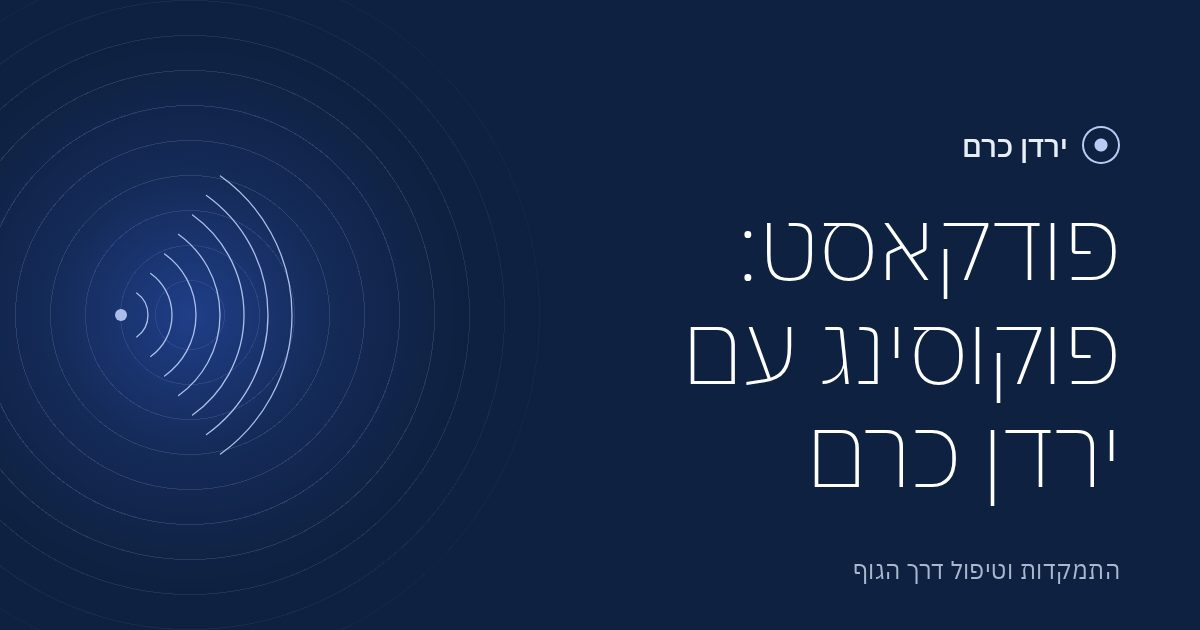
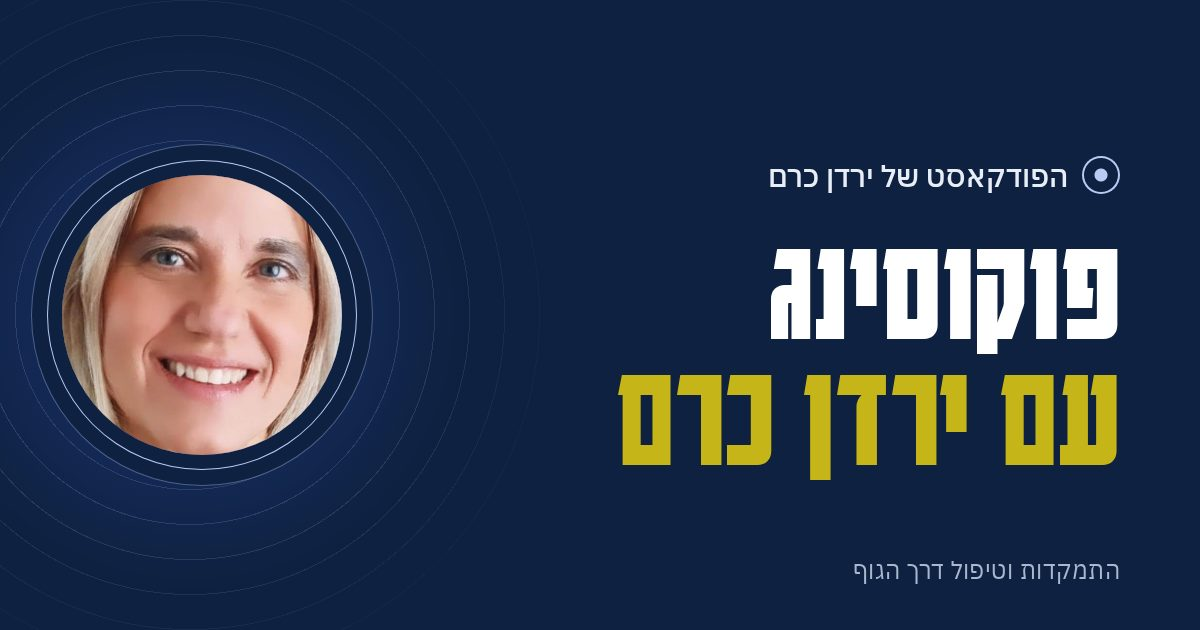
Take the podcast artwork's language: flowing lines, wordmark, Yarden in the circle
- field.svg: ribbons of fine lines that twist and fold (from the podcast
  cover), as a texture on the contact block, testimonials and podcast hero
- Podcast wordmark in Karantina Bold (SIL OFL) with 'עם ירדן כרם' in the
  cover's mustard, only where the podcast appears
- Podcast page hero: Yarden in the lens, wordmark, Spotify and YouTube links
  (Spotify show verified via oEmbed)
- Home: the podcast as a small dark card in its own identity
- Share image for the podcast in the same style; og headings keep spaces

Claude-Session: https://claude.ai/code/session_014A9Rt8sVo3QZg3Ea7hN3fG

Changed region(s): [[0.4933, 0.3317, 0.9558, 0.7841], [0.0308, 0.2413, 0.3083, 0.754], [0.6167, 0.2111, 0.925, 0.3016]]

diff --git a/web/content/updates/2026-10-podcast.body.html b/web/content/updates/2026-10-podcast.body.html
@@ -1,0 +1,37 @@
+<header class="page-hero"><span class="field" aria-hidden="true"></span><div class="wrap">
+<figure class="portrait page-hero__portrait"><span class="portrait__mark" aria-hidden="true"></span><img src="/assets/yarden.jpg" alt="ירדן כרם" width="640" height="640" fetchpriority="high" decoding="async"></figure>
+<h1 class="podmark"><span>פוקוסינג</span><span>עם ירדן כרם</span></h1>
+<p class="page-hero__sub">הפודקאסט על התמקדות ועל Somatic Experiencing: הסברים, סשנים מוקלטים ושיחות עם אורחים.</p>
+<div class="actions"><a class="btn btn--paper" href="https://open.spotify.com/show/1PdEltqdiPKR4aGi3efIDc" target="_blank" rel="noopener">להאזנה בספוטיפיי</a><a class="btn btn--line-light" href="https://www.youtube.com/@yardenkerem5297" target="_blank" rel="noopener">לערוץ היוטיוב</a></div>
+</div></header>
+
+<section class="block" id="basics"><div class="wrap">
+<h2 class="heading">הגישה והכלים</h2>
+<div class="films">
+<figure class="film"><div class="video" data-yt="B_3e4aVowq4"><button type="button" class="video__play" aria-label="הפעלת סרטון: פרק 1, מהי גישת ההתמקדות (Focusing), ובמה היא יכולה לתרום לכל אחד" style="background-image:url(https://i.ytimg.com/vi/B_3e4aVowq4/hqdefault.jpg)"><span class="video__icon" aria-hidden="true"></span></button></div><figcaption><h3>מהי גישת ההתמקדות (Focusing), ובמה היא יכולה לתרום לכל אחד</h3><p>פרק 1</p></figcaption></figure>
+<figure class="film"><div class="video" data-yt="OIxfHsZ9CQE"><button type="button" class="video__play" aria-label="הפעלת סרטון: פרק 2, Somatic Experiencing: טיפול דרך הקשבה לתחושות הגוף במצבים של טראומת שוק" style="background-image:url(https://i.ytimg.com/vi/OIxfHsZ9CQE/hqdefault.jpg)"><span class="video__icon" aria-hidden="true"></span></button></div><figcaption><h3>Somatic Experiencing: טיפול דרך הקשבה לתחושות הגוף במצבים של טראומת שוק</h3><p>פרק 2</p></figcaption></figure>
+<figure class="film"><div class="video" data-yt="7vpLk1fitXs"><button type="button" class="video__play" aria-label="הפעלת סרטון: פרק 3, &quot;אני מאכזב&quot;, &quot;אני כישלון&quot;: קולות של ביקורת פנימית ומה עושים איתם" style="background-image:url(https://i.ytimg.com/vi/7vpLk1fitXs/hqdefault.jpg)"><span class="video__icon" aria-hidden="true"></span></button></div><figcaption><h3>"אני מאכזב", "אני כישלון": קולות של ביקורת פנימית ומה עושים איתם</h3><p>פרק 3</p></figcaption></figure>
+<figure class="film"><div class="video" data-yt="uz6SETPzGik"><button type="button" class="video__play" aria-label="הפעלת סרטון: פרק 4, פוקוסינג על מצבים חסומים" style="background-image:url(https://i.ytimg.com/vi/uz6SETPzGik/hqdefault.jpg)"><span class="video__icon" aria-hidden="true"></span></button></div><figcaption><h3>פוקוסינג על מצבים חסומים</h3><p>פרק 4</p></figcaption></figure>
+<figure class="film"><div class="video" data-yt="hia4MBUcJbk"><button type="button" class="video__play" aria-label="הפעלת סרטון: פרק 6, התמקדות אישית ופינוי המרחב לפי הגישה של יוג'ין ג'נדלין" style="background-image:url(https://i.ytimg.com/vi/hia4MBUcJbk/hqdefault.jpg)"><span class="video__icon" aria-hidden="true"></span></button></div><figcaption><h3>התמקדות אישית ופינוי המרחב לפי הגישה של יוג'ין ג'נדלין</h3><p>פרק 6</p></figcaption></figure>
+<figure class="film"><div class="video" data-yt="Qn1eYPBh2dw"><button type="button" class="video__play" aria-label="הפעלת סרטון: פרק 9, סולו פוקוסינג: התמקדות לפי הגישה של אן וייזר קורנל" style="background-image:url(https://i.ytimg.com/vi/Qn1eYPBh2dw/hqdefault.jpg)"><span class="video__icon" aria-hidden="true"></span></button></div><figcaption><h3>סולו פוקוסינג: התמקדות לפי הגישה של אן וייזר קורנל</h3><p>פרק 9</p></figcaption></figure>
+</div>
+</div></section>
+
+<section class="block block--tint" id="sessions"><div class="wrap">
+<h2 class="heading">סשנים</h2>
+<div class="films">
+<figure class="film"><div class="video" data-yt="drvg5u-YLPg"><button type="button" class="video__play" aria-label="הפעלת סרטון: פרק 7, סשן עם ברק סולימן: התמקדות על כאב גב" style="background-image:url(https://i.ytimg.com/vi/drvg5u-YLPg/hqdefault.jpg)"><span class="video__icon" aria-hidden="true"></span></button></div><figcaption><h3>סשן עם ברק סולימן: התמקדות על כאב גב</h3><p>פרק 7</p></figcaption></figure>
+<figure class="film"><div class="video" data-yt="XHTzIAGLnHI"><button type="button" class="video__play" aria-label="הפעלת סרטון: פרק 12, איך להבין את הדברים עד הסוף: סשן עם איריס גולדפינגר" style="background-image:url(https://i.ytimg.com/vi/XHTzIAGLnHI/hqdefault.jpg)"><span class="video__icon" aria-hidden="true"></span></button></div><figcaption><h3>איך להבין את הדברים עד הסוף: סשן עם איריס גולדפינגר</h3><p>פרק 12</p></figcaption></figure>
+</div>
+</div></section>
+
+<section class="block" id="talks"><div class="wrap">
+<h2 class="heading">שיחות</h2>
+<div class="films">
+<figure class="film"><div class="video" data-yt="Y63bPMH0OPY"><button type="button" class="video__play" aria-label="הפעלת סרטון: פרק 5, הילד הפנימי ופוקוסינג: שיחה עם חמוטל שפיצר גת" style="background-image:url(https://i.ytimg.com/vi/Y63bPMH0OPY/hqdefault.jpg)"><span class="video__icon" aria-hidden="true"></span></button></div><figcaption><h3>הילד הפנימי ופוקוסינג: שיחה עם חמוטל שפיצר גת</h3><p>פרק 5</p></figcaption></figure>
+<figure class="film"><div class="video" data-yt="3P2a5Cs8dA8"><button type="button" class="video__play" aria-label="הפעלת סרטון: פרק 8, שיחה על פוקוסינג, תובנות עמוקות, גלגולים ושקט עם יונתן סער" style="background-image:url(https://i.ytimg.com/vi/3P2a5Cs8dA8/hqdefault.jpg)"><span class="video__icon" aria-hidden="true"></span></button></div><figcaption><h3>שיחה על פוקוסינג, תובנות עמוקות, גלגולים ושקט עם יונתן סער</h3><p>פרק 8</p></figcaption></figure>
+<figure class="film"><div class="video" data-yt="wUosHxE6PzQ"><button type="button" class="video__play" aria-label="הפעלת סרטון: פרק 10, שיחה עם נטע פלג גינזבורג על מחול, ציידים־לקטים, תנועה, שפה והתמקדות" style="background-image:url(https://i.ytimg.com/vi/wUosHxE6PzQ/hqdefault.jpg)"><span class="video__icon" aria-hidden="true"></span></button></div><figcaption><h3>שיחה עם נטע פלג גינזבורג על מחול, ציידים־לקטים, תנועה, שפה והתמקדות</h3><p>פרק 10</p></figcaption></figure>
+<figure class="film"><div class="video" data-yt="0HLVAFoYXTE"><button type="button" class="video__play" aria-label="הפעלת סרטון: פרק 11, ההתמקדות היא יהלום נדיר: שיחה על הרטט המיוחד של ההתמקדות עם הילי זמיר" style="background-image:url(https://i.ytimg.com/vi/0HLVAFoYXTE/hqdefault.jpg)"><span class="video__icon" aria-hidden="true"></span></button></div><figcaption><h3>ההתמקדות היא יהלום נדיר: שיחה על הרטט המיוחד של ההתמקדות עם הילי זמיר</h3><p>פרק 11</p></figcaption></figure>
+<figure class="film"><div class="video" data-yt="1jbUwFVDHcM"><button type="button" class="video__play" aria-label="הפעלת סרטון: פרק 13, שיחה עם אשרת קוטלר" style="background-image:url(https://i.ytimg.com/vi/1jbUwFVDHcM/hqdefault.jpg)"><span class="video__icon" aria-hidden="true"></span></button></div><figcaption><h3>שיחה עם אשרת קוטלר</h3><p>פרק 13</p></figcaption></figure>
+</div>
+</div></section>

diff --git a/web/public/assets/style.css b/web/public/assets/style.css
@@ -12,6 +12,9 @@
 @font-face { font-family: "IBM Plex Sans Hebrew"; font-style: normal; font-weight: 400; font-display: swap; src: url("/assets/fonts/IBMPlexSansHebrew-Regular.woff2") format("woff2"); }
 @font-face { font-family: "IBM Plex Sans Hebrew"; font-style: normal; font-weight: 500; font-display: swap; src: url("/assets/fonts/IBMPlexSansHebrew-Medium.woff2") format("woff2"); }
 @font-face { font-family: "IBM Plex Sans Hebrew"; font-style: normal; font-weight: 600; font-display: swap; src: url("/assets/fonts/IBMPlexSansHebrew-SemiBold.woff2") format("woff2"); }
+/* Karantina (SIL OFL, see fonts/LICENSE-Karantina.txt): only for the podcast's wordmark, as in its artwork */
+@font-face { font-family: "Karantina"; font-style: normal; font-weight: 700; font-display: swap; src: url("/assets/fonts/Karantina-Bold-hebrew.woff2") format("woff2"); unicode-range: U+0307-0308, U+0590-05FF, U+200C-2010, U+20AA, U+25CC, U+FB1D-FB4F; }
+@font-face { font-family: "Karantina"; font-style: normal; font-weight: 700; font-display: swap; src: url("/assets/fonts/Karantina-Bold-latin.woff2") format("woff2"); unicode-range: U+0000-00FF, U+0131, U+0152-0153, U+02BB-02BC, U+02C6, U+02DA, U+02DC, U+0304, U+0308, U+0329, U+2000-206F, U+20AC, U+2122, U+2191, U+2193, U+2212, U+2215, U+FEFF, U+FFFD; }
 
 :root {
   /* Palette — the five blues */
@@ -31,6 +34,9 @@
   --on-ink: #e8eef7;
   --on-ink-soft: #a9b8cf;
   --white: #ffffff;
+  /* From the podcast's artwork: its mustard accent and electric blue lines */
+  --pod: #c5b518;
+  --electric: #5b86ff;
 
   --font: "IBM Plex Sans Hebrew", "Arial Hebrew", "Segoe UI", sans-serif;
   /* Scale: 1.333 (perfect fourth) from 18px body; display is fluid */
@@ -653,6 +659,39 @@ img.is-missing, .figure.is-missing, .gallery figure.is-missing { display: none; 
 .split > .about__side { position: sticky; top: calc(var(--header-h) + 84px); }
 @media (max-width: 900px) { .split > .about__side { position: static; } .about__side .portrait { width: min(72vw, 280px); } }
 
+/* The podcast's identity (its artwork: condensed white type, mustard accent, flowing blue lines) */
+.podmark { font-family: "Karantina", var(--font); font-weight: 700; line-height: .86; letter-spacing: .005em; margin: 0; text-wrap: nowrap; }
+.podmark > span { display: block; }
+.podmark > span + span { color: var(--pod); }
+.page-hero .podmark { font-size: clamp(4.4rem, 2.4rem + 7.4vw, 9.6rem); color: var(--white); }
+
+/* Flowing lines on dark panels */
+.field { position: absolute; inset: 0; z-index: -1; pointer-events: none; background: var(--electric); opacity: .38; -webkit-mask: url("/assets/art/field.svg") center / cover no-repeat; mask: url("/assets/art/field.svg") center / cover no-repeat; }
+.block--contact, .section--ink, .podcard { position: relative; isolation: isolate; overflow: hidden; }
+.block--contact .field { opacity: .2; }
+.podcard .field { inset: 0 0 auto; height: 420px; opacity: .42; }
+
+/* Home: the podcast as a small version of its cover */
+.podcard { align-self: start; padding: clamp(28px, 4vw, 48px); border-radius: var(--r-panel); background: var(--ink); color: var(--on-ink); }
+.podcard .podmark { font-size: clamp(3.6rem, 2.4rem + 4vw, 6rem); margin-bottom: 18px; color: var(--white); }
+.podcard__lead { margin: 0 0 28px; color: var(--on-ink-soft); }
+.podcard .episode p { color: var(--on-ink); }
+.podcard .actions { margin-top: 8px; }
+
+/* A photo at the centre of a page hero's lens (the podcast page) */
+.portrait.page-hero__portrait {
+  --pw: clamp(210px, 20vw, 300px);
+  position: absolute; top: 50%; inset-inline-end: calc(var(--lens) * .22 - var(--pw) / 2);
+  width: var(--pw); translate: 0 -50%;
+  animation: focus-in 2s .15s cubic-bezier(.2, .6, .1, 1) both;
+}
+.page-hero:has(.page-hero__portrait)::after { display: none; }
+.portrait.page-hero__portrait::after { border-color: rgba(185, 203, 245, .22); }
+@media (max-width: 980px) {
+  .portrait.page-hero__portrait { position: relative; top: auto; inset: auto; translate: none; width: 120px; margin: 0 30px 40px; }
+  .page-hero:has(.page-hero__portrait) .wrap::before { display: none; }
+}
+
 /* Videos: balanced rows by count, captions from YouTube titles */
 .films:has(> :nth-child(5):last-child) { grid-template-columns: repeat(6, minmax(0, 1fr)); }
 .films:has(> :nth-child(5):last-child) > :nth-child(-n + 2) { grid-column: span 3; }
@@ -766,7 +805,7 @@ img.is-missing, .figure.is-missing, .gallery figure.is-missing { display: none; 
 .whatsapp:hover { color: #fff; }
 
 @media (prefers-reduced-motion: reduce) {
-  .hero h1 span, .page-hero h1, .hero::before, .page-hero::before, .page-hero::after, .hero__portrait { animation: none; }
+  .hero h1 span, .page-hero h1, .hero::before, .page-hero::before, .page-hero::after, .hero__portrait, .page-hero__portrait { animation: none; }
   * { transition: none !important; }
 }
 @media print { .site-header, .whatsapp, .block--contact, .site-footer, .toc, .a11y-btn { display: none; } .hero, .page-hero { background: none; color: #000; } .page-hero h1, .hero h1 { color: #000; } }

diff --git a/web/content/updates/2026-10-home.body.html b/web/content/updates/2026-10-home.body.html
@@ -77,6 +77,7 @@
 </section>
 
 <section class="section section--ink" aria-label="מה אומרים מטופלים">
+  <span class="field" aria-hidden="true"></span>
   <div class="wrap">
     <!--yk:voices--><div class="voices" data-voices><figure class="voice"><blockquote>אחרי שנים של תקיעות ב&#x27;מתישהו&#x27;, מצאתי את האומץ לפתוח קליניקה משלי. זו לא רק עבודה, זו חופש אמיתי שהגיע מתוך תזוזה עמוקה בפנים.</blockquote><figcaption>מטופלת</figcaption></figure><figure class="voice" hidden><blockquote>הרגשתי לכודה בדפוסים ישנים, במיוחד במערכות יחסים. דרך ההקשבה לגוף הבנתי מה אני באמת מרגישה, ופתאום יכולתי להציב גבול ברור ששינה הכל.</blockquote><figcaption>מטופלת</figcaption></figure><figure class="voice" hidden><blockquote>הכאב היה כמו מפלצת שברחתי ממנה כל חיי. כשלמדתי לעצור ולהקשיב לו בעדינות דרך הגוף, הוא התכווץ והפך לחלק ממני. זוהי השלווה שחיפשתי.</blockquote><figcaption>מטופל</figcaption></figure></div>
     <div class="voices__nav">
@@ -116,10 +117,12 @@
 
 <section class="section">
   <div class="wrap media-split">
-    <div>
-      <h2>להאזין: פוקוסינג עם ירדן כרם</h2>
+    <div class="podcard">
+      <span class="field" aria-hidden="true"></span>
+      <h2 class="podmark"><span>פוקוסינג</span><span>עם ירדן כרם</span></h2>
+      <p class="podcard__lead">הפודקאסט: הסברים, סשנים מוקלטים ושיחות עם אורחים.</p>
       <div class="episode"><div class="video" data-yt="1jbUwFVDHcM"><button type="button" class="video__play" aria-label="הפעלת סרטון: פרק 13: שיחה עם אשרת קוטלר" style="background-image:url(https://i.ytimg.com/vi/1jbUwFVDHcM/hqdefault.jpg)"><span class="video__icon" aria-hidden="true"></span></button></div><p>פרק 13: שיחה עם אשרת קוטלר</p></div><div class="episode"><div class="video" data-yt="XHTzIAGLnHI"><button type="button" class="video__play" aria-label="הפעלת סרטון: פרק שנים עשר - איך להבין את הדברים עד הסוף - סשן עם איריס גולדפינגר" style="background-image:url(https://i.ytimg.com/vi/XHTzIAGLnHI/hqdefault.jpg)"><span class="video__icon" aria-hidden="true"></span></button></div><p>פרק שנים עשר - איך להבין את הדברים עד הסוף - סשן עם איריס גולדפינגר</p></div>
-      <p><a class="more" href="/פודקאסט/">כל פרקי הפודקאסט</a></p>
+      <div class="actions"><a class="btn btn--paper btn--sm" href="https://open.spotify.com/show/1PdEltqdiPKR4aGi3efIDc" target="_blank" rel="noopener">להאזנה בספוטיפיי</a><a class="btn btn--line-light btn--sm" href="/פודקאסט/">כל הפרקים</a></div>
     </div>
     <div>
       <h2>לקרוא: מאמרים</h2>

diff --git a/web/content/contact.html b/web/content/contact.html
@@ -1,5 +1,6 @@
 
 <section class="section section--ink block--contact" id="contact">
+  <span class="field" aria-hidden="true"></span>
   <div class="wrap contact">
     <div>
       <h2>איפה להתחיל?</h2>

diff --git a/README.md b/README.md
@@ -44,6 +44,7 @@ node --import ./test/register.mjs test/sanitize.test.mjs
 - **תמונות שיתוף (og:image):** `node web/scripts/gen-og.mjs` מייצר תמונה 1200×630 לכל עמוד ולכל מאמר בלי תמונה משלו (`public/og/`). דורש Playwright, ולכן מריצים אותו במחשב פיתוח ומעלים את הקבצים לגיט.
 - **כותרות סרטונים:** `web/content/video-titles.json` (מתוך YouTube oEmbed). סרטון שהוסר מיוטיוב מוצג כהודעה במקום נגן.
 - **בלוק יצירת הקשר:** נמצא במקום אחד, `web/content/contact.html`, ומוצג כך בכל העמודים.
+- **זהות הפודקאסט:** לקוחה מעטיפת הפודקאסט בספוטיפיי: שם הפודקאסט בגופן Karantina (רישיון OFL) עם "עם ירדן כרם" בחרדל (`--pod`), וקווים זורמים בכחול חשמלי (`field.svg`, `--electric`). הקווים מופיעים גם ברקע של בלוק יצירת הקשר ושל ההמלצות.
 
 ## מבנה
 
